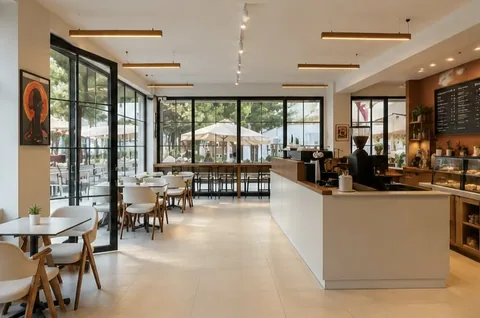
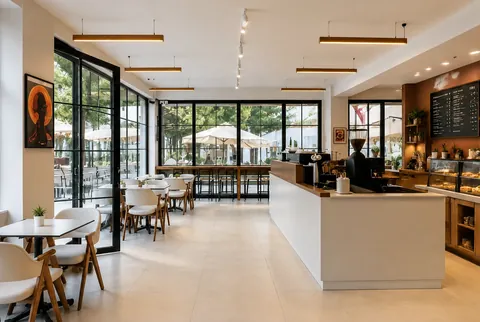
Mekân fotoğraflarını kalitesi artırılmış sürümlerle değiştir
Sahibin gönderdiği 1500-2000px görsellerden aynı dosya adlarıyla yeni
WebP'ler: hero (cam kenarı, 825x1031, 91KB), cam kenarı bar, uzun masa,
tezgâh, teras ve tabela (dış cephe kırpımları). 480w ve 800w sürümleri
srcset ile; HTML'deki boyutlar güncellendi.

Claude-Session: https://claude.ai/code/session_01HcYNr3FTnsHdbPZEfXPd41

diff --git a/mekan.html b/mekan.html
@@ -101,12 +101,12 @@
     </section>
 
     <section class="mekan-galeri" aria-label="Mekandan">
-      <img class="mekan-bant" src="img/mekan-uzun-calisma-masasi.webp" srcset="img/mekan-uzun-calisma-masasi-480.webp 480w, img/mekan-uzun-calisma-masasi.webp 752w" sizes="100vw" width="752" height="501" alt="Hardal duvar önünde uzun ahşap çalışma masası ve sandalyeler; arkada LED'li oval ayna." loading="lazy" decoding="async">
+      <img class="mekan-bant" src="img/mekan-uzun-calisma-masasi.webp" srcset="img/mekan-uzun-calisma-masasi-480.webp 480w, img/mekan-uzun-calisma-masasi-800.webp 800w, img/mekan-uzun-calisma-masasi.webp 1400w" sizes="100vw" width="1400" height="943" alt="Hardal duvar önünde uzun ahşap çalışma masası ve sandalyeler; arkada LED'li oval ayna." loading="lazy" decoding="async">
       <div class="mekan-kareler">
-        <img src="img/mekan-cam-kenari-bar.webp" srcset="img/mekan-cam-kenari-bar-480.webp 480w, img/mekan-cam-kenari-bar.webp 742w" sizes="(min-width: 761px) 50vw, 50vw" width="742" height="496" alt="Büyük camların önünde bar tabureleri ve masalar; dışarıda şemsiyeler ve ağaçlar." loading="lazy" decoding="async">
-        <img src="img/mekan-teras.webp" width="570" height="372" alt="Şemsiyeli teras, masalar ve girişe çıkan merdiven." loading="lazy" decoding="async">
-        <img src="img/mekan-tezgah.webp" srcset="img/mekan-tezgah-480.webp 480w, img/mekan-tezgah.webp 747w" sizes="(min-width: 761px) 50vw, 50vw" width="747" height="495" alt="Espresso makinesinin durduğu tezgâh; arkada menü panosu, yanda büyük camlar." loading="lazy" decoding="async">
-        <img src="img/mekan-giris-tabela.webp" srcset="img/mekan-giris-tabela-480.webp 480w, img/mekan-giris-tabela.webp 768w" sizes="(min-width: 761px) 50vw, 50vw" width="768" height="504" alt="Ağaçların önünde Soracoffee.co tabelası ve şemsiyeli teras." loading="lazy" decoding="async">
+        <img src="img/mekan-cam-kenari-bar.webp" srcset="img/mekan-cam-kenari-bar-480.webp 480w, img/mekan-cam-kenari-bar-800.webp 800w, img/mekan-cam-kenari-bar.webp 1400w" sizes="(min-width: 761px) 50vw, 50vw" width="1400" height="946" alt="Büyük camların önünde bar tabureleri ve masalar; dışarıda şemsiyeler ve ağaçlar." loading="lazy" decoding="async">
+        <img src="img/mekan-teras.webp" srcset="img/mekan-teras-480.webp 480w, img/mekan-teras-800.webp 800w, img/mekan-teras.webp 1020w" sizes="(min-width: 761px) 50vw, 100vw" width="1020" height="557" alt="Şemsiyeli teras, masalar ve girişe çıkan merdiven." loading="lazy" decoding="async">
+        <img src="img/mekan-tezgah.webp" srcset="img/mekan-tezgah-480.webp 480w, img/mekan-tezgah-800.webp 800w, img/mekan-tezgah.webp 1400w" sizes="(min-width: 761px) 50vw, 50vw" width="1400" height="939" alt="Espresso makinesinin durduğu tezgâh; arkada menü panosu, yanda büyük camlar." loading="lazy" decoding="async">
+        <img src="img/mekan-giris-tabela.webp" srcset="img/mekan-giris-tabela-480.webp 480w, img/mekan-giris-tabela-800.webp 800w, img/mekan-giris-tabela.webp 1100w" sizes="(min-width: 761px) 50vw, 50vw" width="1100" height="677" alt="Ağaçların önünde Soracoffee.co tabelası ve şemsiyeli teras." loading="lazy" decoding="async">
       </div>
     </section>
 

diff --git a/index.html b/index.html
@@ -104,7 +104,7 @@
         </p>
       </div>
       <figure class="hero-foto">
-        <img src="img/hero-cam-kenari-bar.webp" width="410" height="496" alt="Cam kenarındaki uzun bar ve tabureler; camın ardında şemsiyeli teras ve ağaçlar." fetchpriority="high">
+        <img src="img/hero-cam-kenari-bar.webp" srcset="img/hero-cam-kenari-bar-480.webp 480w, img/hero-cam-kenari-bar.webp 825w" sizes="(min-width: 761px) 42vw, 100vw" width="825" height="1031" alt="Cam kenarındaki uzun bar ve tabureler; camın ardında şemsiyeli teras ve ağaçlar." fetchpriority="high">
       </figure>
     </section>
 
@@ -114,13 +114,13 @@
 
     <section class="mekan-seridi" aria-label="Mekandan" tabindex="0">
       <figure>
-        <img src="img/mekan-cam-kenari-bar.webp" srcset="img/mekan-cam-kenari-bar-480.webp 480w, img/mekan-cam-kenari-bar.webp 742w" sizes="(min-width: 761px) 33vw, 78vw" width="742" height="496" alt="Büyük camların önünde bar tabureleri ve masalar; dışarıda şemsiyeler ve ağaçlar." loading="lazy" decoding="async">
+        <img src="img/mekan-cam-kenari-bar.webp" srcset="img/mekan-cam-kenari-bar-480.webp 480w, img/mekan-cam-kenari-bar-800.webp 800w, img/mekan-cam-kenari-bar.webp 1400w" sizes="(min-width: 761px) 33vw, 78vw" width="1400" height="946" alt="Büyük camların önünde bar tabureleri ve masalar; dışarıda şemsiyeler ve ağaçlar." loading="lazy" decoding="async">
       </figure>
       <figure>
-        <img src="img/mekan-uzun-calisma-masasi.webp" srcset="img/mekan-uzun-calisma-masasi-480.webp 480w, img/mekan-uzun-calisma-masasi.webp 752w" sizes="(min-width: 761px) 33vw, 78vw" width="752" height="501" alt="Hardal duvar önünde uzun ahşap çalışma masası ve sandalyeler." loading="lazy" decoding="async">
+        <img src="img/mekan-uzun-calisma-masasi.webp" srcset="img/mekan-uzun-calisma-masasi-480.webp 480w, img/mekan-uzun-calisma-masasi-800.webp 800w, img/mekan-uzun-calisma-masasi.webp 1400w" sizes="(min-width: 761px) 33vw, 78vw" width="1400" height="943" alt="Hardal duvar önünde uzun ahşap çalışma masası ve sandalyeler." loading="lazy" decoding="async">
       </figure>
       <figure>
-        <img src="img/mekan-teras.webp" width="570" height="372" alt="Şemsiyeli teras, masalar ve girişe çıkan merdiven." loading="lazy" decoding="async">
+        <img src="img/mekan-teras.webp" srcset="img/mekan-teras-480.webp 480w, img/mekan-teras-800.webp 800w, img/mekan-teras.webp 1020w" sizes="(min-width: 761px) 50vw, 100vw" width="1020" height="557" alt="Şemsiyeli teras, masalar ve girişe çıkan merdiven." loading="lazy" decoding="async">
       </figure>
     </section>
 

diff --git a/iletisim.html b/iletisim.html
@@ -97,7 +97,7 @@
     <section class="iletisim-giris" aria-labelledby="il-baslik">
       <h1 id="il-baslik">Bizi bulun</h1>
       <figure>
-        <img src="img/mekan-giris-tabela.webp" srcset="img/mekan-giris-tabela-480.webp 480w, img/mekan-giris-tabela.webp 768w" sizes="(min-width: 761px) 1200px, 100vw" width="768" height="504" alt="Ağaçların önünde Soracoffee.co tabelası ve şemsiyeli teras." loading="lazy" decoding="async">
+        <img src="img/mekan-giris-tabela.webp" srcset="img/mekan-giris-tabela-480.webp 480w, img/mekan-giris-tabela-800.webp 800w, img/mekan-giris-tabela.webp 1100w" sizes="(min-width: 761px) 1200px, 100vw" width="1100" height="677" alt="Ağaçların önünde Soracoffee.co tabelası ve şemsiyeli teras." loading="lazy" decoding="async">
       </figure>
     </section>
 

diff --git a/img/CEKIM-LISTESI.md b/img/CEKIM-LISTESI.md
@@ -8,6 +8,8 @@ Gelen fotoğraflar yaklaşık 770px genişliğinde. Sitede iyi duruyorlar, ama
 telefonun kendi kaydettiği orijinal dosyalar (genelde 3000px ve üstü) gelirse
 hero ve büyük kemerler belirgin biçimde daha keskin olur.
 
+Güncelleme: mekân fotoğrafları sahibin gönderdiği kalitesi artırılmış sürümlerle (1500–2000px) değiştirildi.
+
 ## Gelenler
 
 | Dosya | Nerede | Kaynak fotoğraf |
